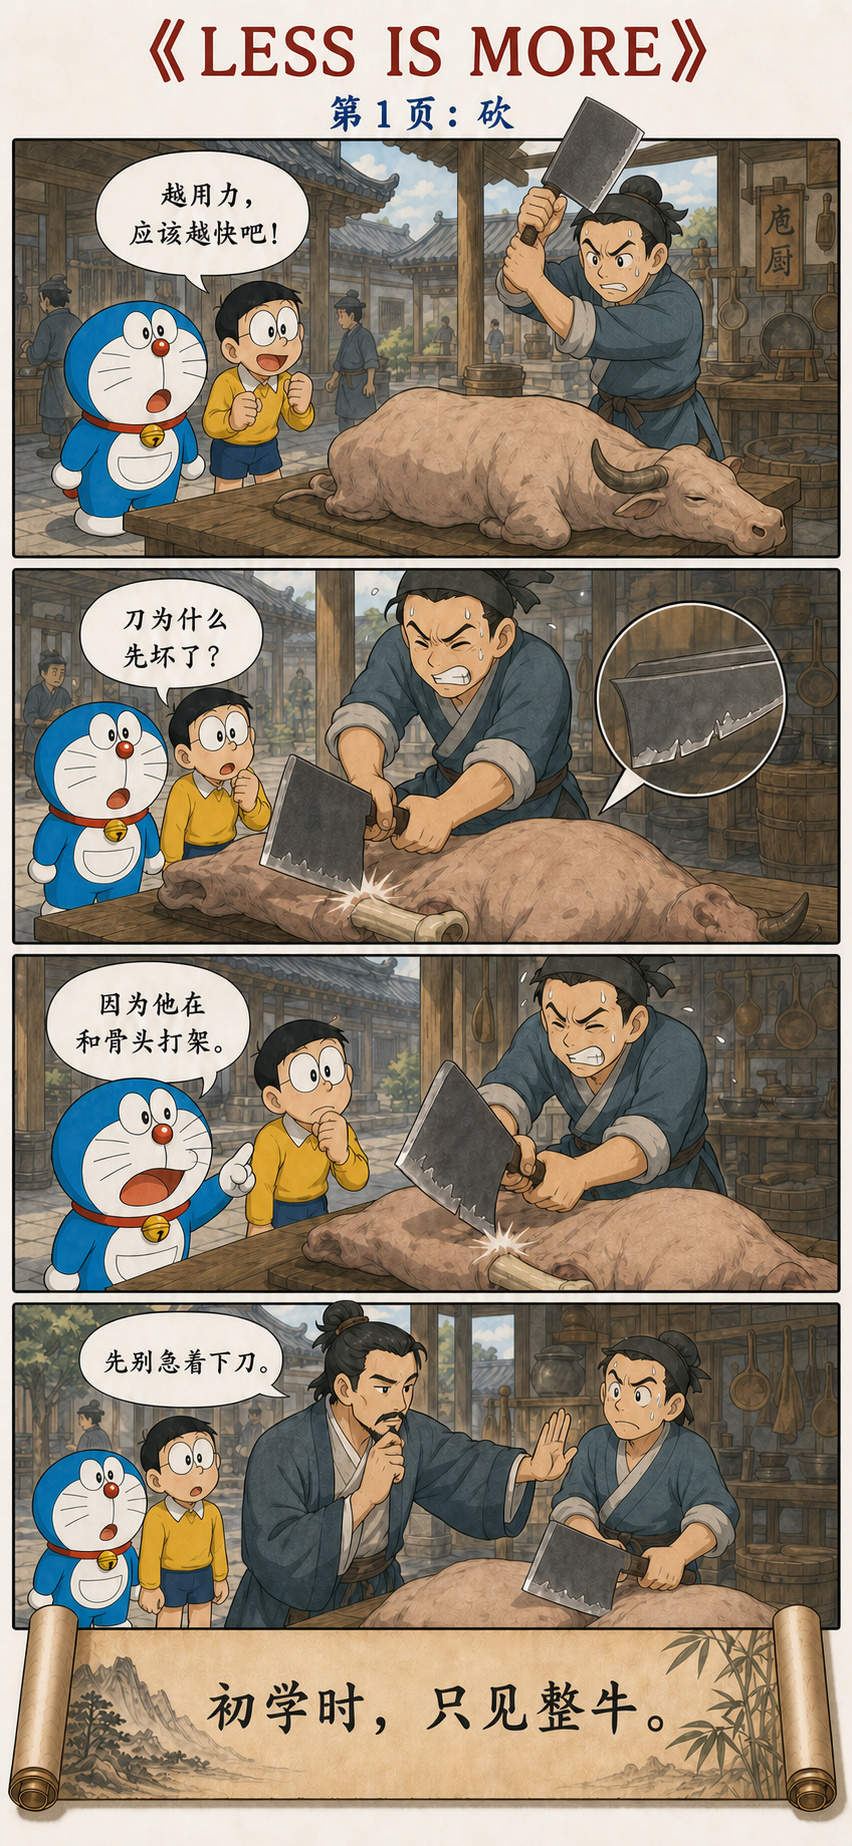
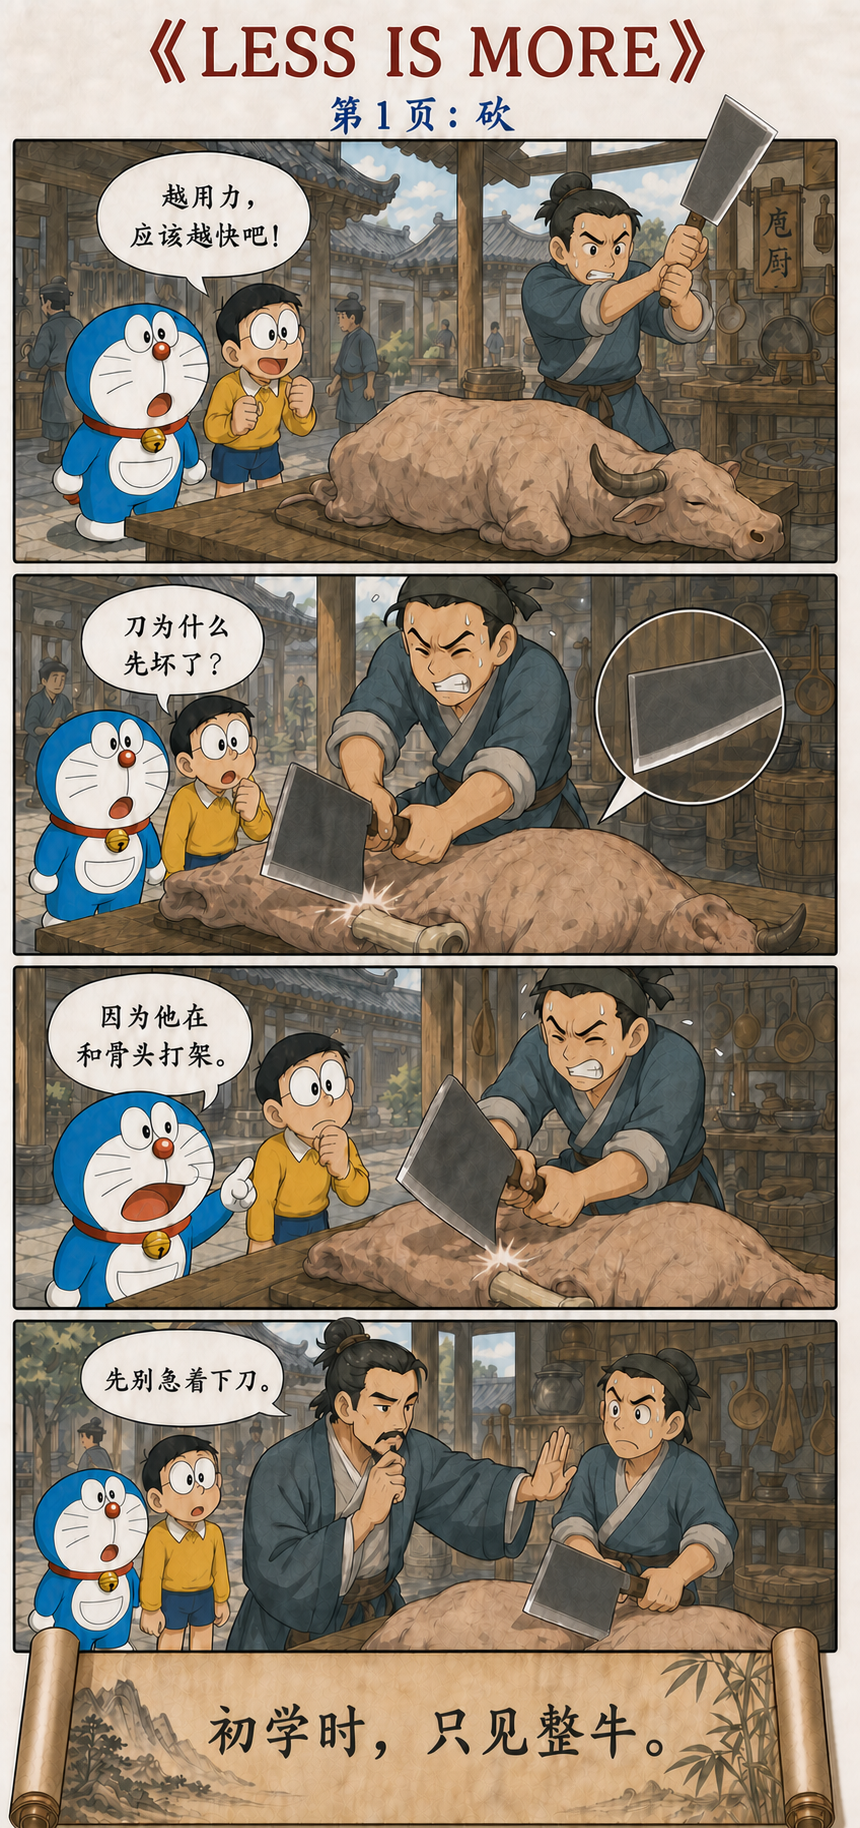
Correct Chapter 48 cleaver pose

diff --git a/projects/doraemon-laozhuang/chapter-48.html b/projects/doraemon-laozhuang/chapter-48.html
@@ -56,7 +56,7 @@
         <span class="section-kicker">三页图解</span>
         <h2>砍、看、顺：高手怎样减少多余动作</h2>
         <div class="comic-series">
-          <figure><img src="chapter-48-1-v2.png" width="852" height="1846" loading="eager" alt="哆啦A梦和大雄观看初学者用蛮力解牛，刀刃因撞击骨头而损坏"><figcaption>第一图 · 砍：看不见结构，只能用力对抗。<span class="translation" lang="en">Panel One · Hack: unable to see the structure, the beginner can only fight it with force.</span></figcaption></figure>
+          <figure><img src="chapter-48-1-v2.png?v=20260828-4" width="860" height="1828" loading="eager" alt="哆啦A梦和大雄观看初学者用蛮力解牛，厨刀举在身体外侧且刀刃朝外，随后因撞击骨头而损坏"><figcaption>第一图 · 砍：看不见结构，只能用力对抗。<span class="translation" lang="en">Panel One · Hack: unable to see the structure, the beginner can only fight it with force.</span></figcaption></figure>
           <figure><img src="chapter-48-2.png" width="853" height="1844" loading="lazy" alt="庖丁向哆啦A梦和大雄展示牛的骨节、关节与空隙，说明高手看见的是结构"><figcaption>第二图 · 看：不是少学了，而是终于看懂了。<span class="translation" lang="en">Panel Two · See: the master has not learned less; he has finally learned to see.</span></figcaption></figure>
           <figure><img src="chapter-48-3.png" width="853" height="1844" loading="lazy" alt="庖丁顺着骨节空隙下刀，遇到复杂处先停下观察，十九年的刀仍然锋利"><figcaption>第三图 · 顺：少一点强求，多一点顺势。<span class="translation" lang="en">Panel Three · Follow: less forcing, more alignment with the way things already are.</span></figcaption></figure>
         </div>

diff --git a/projects/doraemon-laozhuang/index.html b/projects/doraemon-laozhuang/index.html
@@ -216,7 +216,7 @@
 
         <article class="chapter-tile">
           <a class="chapter-cover" href="chapter-48.html" aria-label="阅读《道德经》第四十八章：为学日益，为道日损">
-            <img src="chapter-48-1-v2-thumb.webp" width="360" height="780" alt="第四十八章漫画预览：从庖丁解牛理解为学日益与为道日损" loading="lazy" decoding="async">
+            <img src="chapter-48-1-v2-thumb.webp?v=20260828-4" width="360" height="766" alt="第四十八章漫画预览：从庖丁解牛理解为学日益与为道日损" loading="lazy" decoding="async">
             <span class="chapter-cover-count">▧ 三页</span>
           </a>
           <div class="chapter-tile-body">
